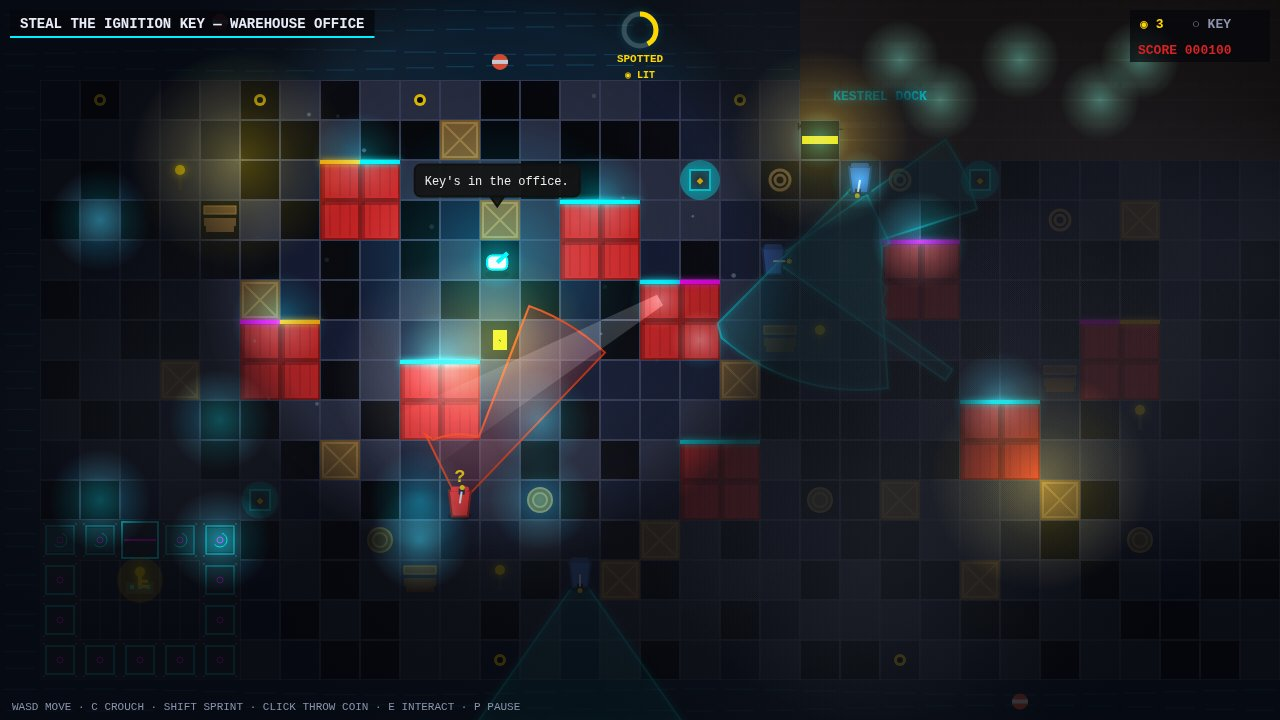
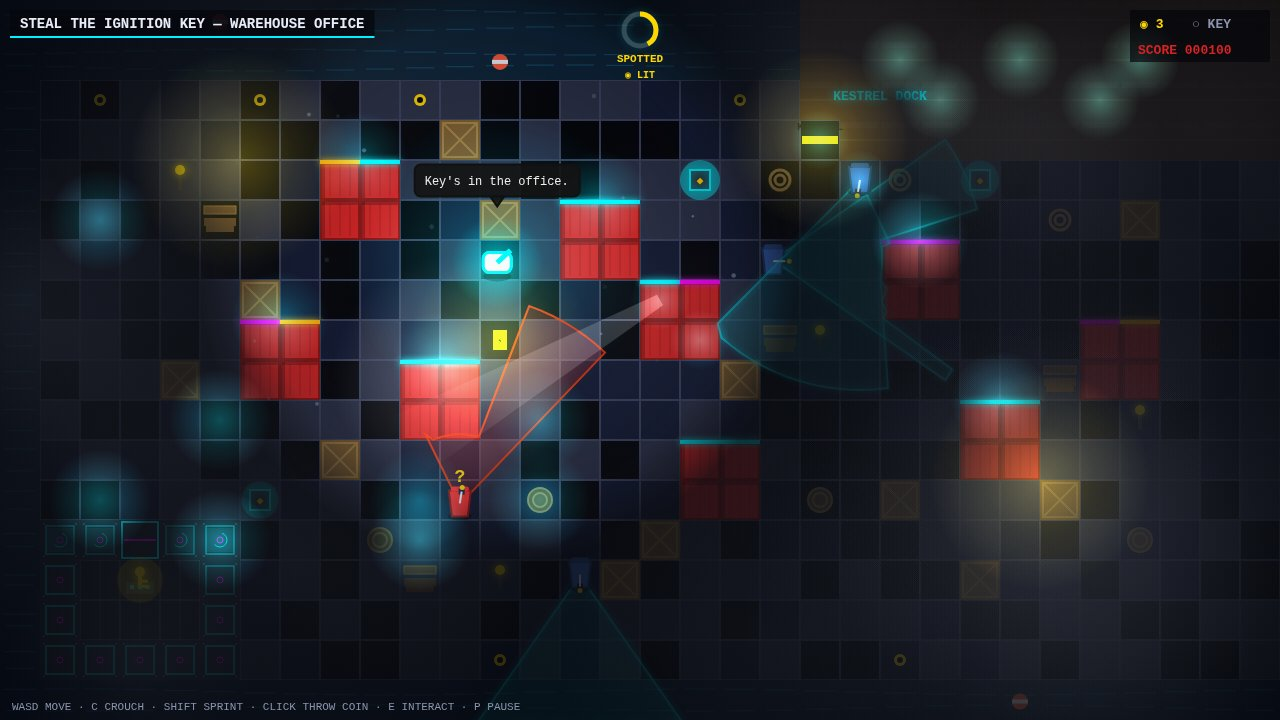
SHADOW DOCK round 2: player bigger + stronger cyan halo (findable at 768x480), careful win driver with turn-sweep margin (G2 cone), re-taken stealth/alert/win shots

Changed region(s): [[0.8125, 0.7333, 0.9062, 0.8861], [0.3438, 0.3056, 0.4375, 0.4278]]

diff --git a/game/src/shots.js b/game/src/shots.js
@@ -18,12 +18,37 @@ const IDLE_CROUCH = {
   mouse: { x: 0, y: 0 },
 };
 
+// Round 2 (12:05 WIB): the careful driver treats "near a cone" as
+// "seen" — a safety margin, because the guards MOVE during a leg and
+// crouching only halves the detection RATE, not the vision range (see
+// guard.js seePlayer: crouched x0.5 on the rate, full 210px range).
+// Without the margin, a guard's cone sweeps onto the player mid-leg and
+// the +5000 no-detection bonus is lost on a 0.1 suspicion blip.
+// The margin (range +50px, half-angle +0.15 rad) covers a guard moving
+// ~11px per leg plus the player's own movement.
+const MARGIN_RANGE = 50;
+const MARGIN_ANGLE = 0.3;
+
+// A guard's cone also sweeps toward its movement direction while it
+// turns at a waypoint — a waiting player in the sweep path gets caught
+// even though the CURRENT facing is safe (G2's turn at (11,15) swept
+// its cone onto a stationary player at row 10, t=7.85). So check BOTH
+// the current facing and the movement-direction facing.
+function guardCovers(g, x, y, crouched) {
+  if (canSee(g.x, g.y, g.facing, VISION.halfAngle + MARGIN_ANGLE, VISION.range + MARGIN_RANGE, x, y, crouched).visible) return true;
+  const sp = Math.hypot(g.vx || 0, g.vy || 0);
+  if (sp > 1) {
+    const mf = Math.atan2(g.vy, g.vx);
+    if (canSee(g.x, g.y, mf, VISION.halfAngle + MARGIN_ANGLE, VISION.range + MARGIN_RANGE, x, y, crouched).visible) return true;
+  }
+  return false;
+}
+
 // Is the player currently visible to any guard (a read-only check)?
+// Uses the safety margin: near a cone counts as seen.
 function playerSeen(world) {
   for (const g of world.guards) {
-    const s = canSee(g.x, g.y, g.facing, VISION.halfAngle, VISION.range,
-      world.player.x, world.player.y, world.player.crouched);
-    if (s.visible) return true;
+    if (guardCovers(g, world.player.x, world.player.y, world.player.crouched)) return true;
   }
   return false;
 }
@@ -60,8 +85,7 @@ function stepWorld(world, input, sfx, n) {
 // walks into a cone (any exposure loses the no-detection bonus).
 function targetSeen(world, tx, ty) {
   for (const g of world.guards) {
-    const s = canSee(g.x, g.y, g.facing, VISION.halfAngle, VISION.range, tx, ty, false);
-    if (s.visible) return true;
+    if (guardCovers(g, tx, ty, false)) return true;
   }
   return false;
 }
@@ -79,8 +103,7 @@ function futureSeen(world, tx, ty) {
   const nx = p.x + (dx / d) * 22;
   const ny = p.y + (dy / d) * 22;
   for (const g of world.guards) {
-    const s = canSee(g.x, g.y, g.facing, VISION.halfAngle, VISION.range, nx, ny, false);
-    if (s.visible) return true;
+    if (guardCovers(g, nx, ny, false)) return true;
   }
   return false;
 }
@@ -89,20 +112,28 @@ function futureSeen(world, tx, ty) {
 // a clear lane, move in short legs, and pause if a guard spots the
 // player. Deterministic — the same seed always gives the same path.
 function driveCareful(world, tx, ty) {
-  for (let i = 0; i < 16; i++) {
+  // Wait longer for a clear window (up to 20s): with the safety margin
+  // the driver must not proceed into a marginal lane, and a guard loop
+  // takes ~15s, so a clear window needs a longer wait. The waits step
+  // 2 steps at a time so a sweeping cone is caught before it lands.
+  for (let i = 0; i < 600; i++) {
     if (!playerSeen(world) && !targetSeen(world, tx, ty) && !futureSeen(world, tx, ty)) break;
-    stepWorld(world, IDLE_CROUCH, silent, 15);
+    stepWorld(world, IDLE_CROUCH, silent, 2);
     if (world.won || world.lost) return;
   }
-  for (let leg = 0; leg < 40; leg++) {
+  // Move in 2-step chunks (not 12): a guard turns 5 rad/s, so in a
+  // 12-step chunk its cone sweeps a full radian and can land on the
+  // player mid-chunk. At 2 steps the sweep is 0.17 rad, inside the
+  // 0.30 rad margin, so the check-before-every-chunk stays valid.
+  for (let leg = 0; leg < 300; leg++) {
     const dx = tx - world.player.x;
     const dy = ty - world.player.y;
     if (Math.hypot(dx, dy) < 8 || world.won || world.lost) break;
-    if (playerSeen(world) || targetSeen(world, tx, ty) || futureSeen(world, tx, ty)) stepWorld(world, IDLE_CROUCH, silent, 30);
+    if (playerSeen(world) || targetSeen(world, tx, ty) || futureSeen(world, tx, ty)) stepWorld(world, IDLE_CROUCH, silent, 2);
     // The win driver crouches while moving: a crouched player is seen
-    // at half the vision range, so the patrol crossings stay safe.
-    else stepWorld(world, driveTo(world, tx, ty, { crouch: true }), silent, 12);
-    if (world.detection > 70) stepWorld(world, IDLE_CROUCH, silent, 60);
+    // at half the detection rate, so the patrol crossings stay safe.
+    else stepWorld(world, driveTo(world, tx, ty, { crouch: true }), silent, 2);
+    if (world.detection > 70) stepWorld(world, IDLE_CROUCH, silent, 2);
   }
 }
 

diff --git a/game/src/render.js b/game/src/render.js
@@ -418,40 +418,44 @@ export class Renderer {
       ctx.restore();
     }
     const bobY = p.bob;
-    const h = p.crouched ? 14 : 24; // crouch: low and wide; standing: tall and slim
-    const w = p.crouched ? 20 : 16;
-    // Soft cyan glow halo so the player pops at contact-sheet size.
+    // Round 2 (12:05 WIB): the player was still hard to find at
+    // contact-sheet size (768x480), so the drawn figure is bigger and
+    // brighter. Drawn size only — the collision radius in config.js is
+    // unchanged, so movement, vision and the lose condition are untouched.
+    const h = p.crouched ? 20 : 30; // crouch: low and wide; standing: tall and slim
+    const w = p.crouched ? 28 : 22;
+    // Strong cyan glow halo so the player pops at contact-sheet size.
     ctx.save();
-    const halo = ctx.createRadialGradient(p.x, p.y, 0, p.x, p.y, 28);
-    halo.addColorStop(0, 'rgba(0,242,255,0.25)');
+    const halo = ctx.createRadialGradient(p.x, p.y, 0, p.x, p.y, 46);
+    halo.addColorStop(0, 'rgba(0,242,255,0.45)');
     halo.addColorStop(1, 'rgba(0,242,255,0)');
     ctx.fillStyle = halo;
     ctx.beginPath();
-    ctx.arc(p.x, p.y, 28, 0, Math.PI * 2);
+    ctx.arc(p.x, p.y, 46, 0, Math.PI * 2);
     ctx.fill();
     ctx.restore();
     // Shadow under the player.
     ctx.fillStyle = 'rgba(0,0,0,0.4)';
     ctx.beginPath();
-    ctx.ellipse(p.x, p.y + 12, 12, 4, 0, 0, Math.PI * 2);
+    ctx.ellipse(p.x, p.y + 14, 14, 5, 0, 0, Math.PI * 2);
     ctx.fill();
-    // Body: white with a 2px cyan outline; sprint leans forward.
+    // Body: white with a 3px cyan outline; sprint leans forward.
     ctx.save();
     ctx.translate(p.x, p.y + bobY);
     if (p.sprinting) ctx.rotate(0.12 * Math.cos(p.facing));
     ctx.fillStyle = PALETTE.white;
     ctx.strokeStyle = PALETTE.cyan;
-    ctx.lineWidth = 2;
+    ctx.lineWidth = 3;
     ctx.beginPath();
-    ctx.roundRect(-w / 2, -h / 2, w, h, 5);
+    ctx.roundRect(-w / 2, -h / 2, w, h, 6);
     ctx.fill();
     ctx.stroke();
-    // Directional eye line (facing): 4px cyan, the player's mark.
+    // Directional eye line (facing): 5px cyan, the player's mark.
     ctx.strokeStyle = PALETTE.cyan;
-    ctx.lineWidth = 4;
+    ctx.lineWidth = 5;
     ctx.beginPath();
     ctx.moveTo(0, 0);
-    ctx.lineTo(Math.cos(p.facing) * 14, Math.sin(p.facing) * 14);
+    ctx.lineTo(Math.cos(p.facing) * 18, Math.sin(p.facing) * 18);
     ctx.stroke();
     ctx.restore();
   }
